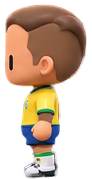
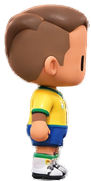
Fix character facing, touch buttons, shot speed, and ball physics
Sami played a real match and reported 4 concrete bugs:

1. Character sprite faces the wrong way (right movement shows the left-
   facing sprite and vice versa). Root cause: the 4 characters' left.png/
   right.png files got swapped during the M4 crop pipeline — confirmed by
   checking where the face/nose pixels actually sit in each crop. Session
   17 misdiagnosed this exact symptom as "just an art nuance, code is
   correct" — that was wrong; the code was always correct, only the two
   asset files were mislabeled. Fixed by physically swapping the files for
   all 4 characters, no code change needed.

2. Bottom-right touch buttons unresponsive on a real phone. Verified via
   Phaser's own source that Arc.setInteractive() already gets a correct
   hit area (Arc.setSize() gives it a proper width/height), and a real CDP
   touch dispatch does register pointerdown correctly — so the button
   objects themselves aren't broken. The likely real culprit: index.html
   never set `touch-action` on the canvas, so the browser's own touch
   handling (scroll attempts, edge-swipe-back gestures, long-press
   callout) competes with Phaser's pointer events, worst right at the
   screen edge where this button cluster sits. Added touch-action: none
   + user-select: none to the canvas, and disableContextMenu: true to the
   Phaser game config.

3. Shots too slow. SHOT_SPEED_NORMAL 420 -> 620 (config/power.ts) — now
[…]

diff --git a/src/entities/Ball.ts b/src/entities/Ball.ts
@@ -18,6 +18,7 @@ import {
   BALL_WALL_RESTITUTION,
   BALL_GROUND_FRICTION,
   BALL_TOUCH_SPEED,
+  BALL_MAX_SPEED,
 } from '../config/ball';
 
 export type GoalSide = 'left' | 'right' | null;
@@ -71,6 +72,11 @@ export class Ball {
   lastTouchWasShot = false;
   private readonly sprite: Phaser.GameObjects.Ellipse;
   private readonly shadow: Phaser.GameObjects.Ellipse;
+  /** A single seam line across the ball, rotated by how far it's actually
+   * rolled (angle += speed/BALL_RADIUS * dt) — without this the ball reads
+   * as "sliding" rather than rolling, however fast it's really going. */
+  private readonly spinMark: Phaser.GameObjects.Line;
+  private spinAngle = 0;
   private readonly tuning: BallTuning;
 
   constructor(scene: Phaser.Scene, startX: number, startZ: number, startY = 40, tuning: Partial<BallTuning> = {}) {
@@ -81,6 +87,7 @@ export class Ball {
 
     this.shadow = scene.add.ellipse(0, 0, BALL_RADIUS * 2.2, BALL_RADIUS * 1.1, 0x000000, 0.35);
     this.sprite = scene.add.ellipse(0, 0, BALL_RADIUS * 2, BALL_RADIUS * 2, 0xffffff).setStrokeStyle(1, 0x333333);
+    this.spinMark = scene.add.line(0, 0, 0, -BALL_RADIUS * 0.75, 0, BALL_RADIUS * 0.75, 0x333333).setLineWidth(1.5);
 
     this.syncTransform();
   }
@@ -95,6 +102,7 @@ export class Ball {
     this.lastShotWasPower = false;
     this.lastShotWasSuper = false;
     this.lastTouchWasShot = false;
+    this.spinAngle = 0;
     this.syncTransform();
   }
 
@@ -164,6 +172,19 @@ export class Ball {
       this.vz = dampen(this.vz, friction * dt);
     }
 
+    // Hard speed cap — stops repeated wall bounces (or wind, over many
+    // frames) from accumulating into an uncontrollable runaway speed.
+    const speed = Math.hypot(this.vx, this.vz);
+    if (speed > BALL_MAX_SPEED) {
+      const clampScale = BALL_MAX_SPEED / speed;
+      this.vx *= clampScale;
+      this.vz *= clampScale;
+    }
+
+    // Visual rolling spin — purely cosmetic, but without it the ball reads
+    // as "sliding" no matter how fast it's actually moving.
+    this.spinAngle += (Math.min(speed, BALL_MAX_SPEED) / BALL_RADIUS) * dt;
+
     const prevX = this.x;
     this.x += this.vx * dt;
     this.z += this.vz * dt;
@@ -218,14 +239,20 @@ export class Ball {
     this.sprite.setScale(scale);
     this.sprite.setPosition(lifted.screenX, lifted.screenY - BALL_RADIUS * scale);
 
+    this.spinMark.setScale(scale);
+    this.spinMark.setPosition(lifted.screenX, lifted.screenY - BALL_RADIUS * scale);
+    this.spinMark.setRotation(this.spinAngle);
+
     // Ball renders just above a character standing on the same ground row.
     const depth = Math.round(ground.screenY);
     this.shadow.setDepth(depth - 1);
     this.sprite.setDepth(depth + 1);
+    this.spinMark.setDepth(depth + 2);
   }
 
   destroy(): void {
     this.sprite.destroy();
     this.shadow.destroy();
+    this.spinMark.destroy();
   }
 }

diff --git a/src/config/ball.ts b/src/config/ball.ts
@@ -7,14 +7,27 @@
 /** px/s². Same order as character gravity but tuned separately — the ball
  * should feel snappier/heavier than the floaty character jump. */
 export const BALL_GRAVITY = 700;
-/** Fraction of vertical speed kept after each ground bounce. */
-export const BALL_BOUNCE_RESTITUTION = 0.6;
+/** Fraction of vertical speed kept after each ground bounce. Lowered from an
+ * earlier 0.6 — Sami found the ball too "bouncy"/hard to control after a
+ * shot (it kept re-bouncing instead of settling). */
+export const BALL_BOUNCE_RESTITUTION = 0.45;
 /** Below this vertical speed, stop bouncing and settle on the ground. */
 export const BALL_MIN_BOUNCE_VY = 40;
-/** Fraction of horizontal speed kept after bouncing off a touchline/wall. */
-export const BALL_WALL_RESTITUTION = 0.7;
-/** px/s² deceleration while the ball is rolling on the ground. */
-export const BALL_GROUND_FRICTION = 220;
+/** Fraction of horizontal speed kept after bouncing off a touchline/wall/
+ * goal frame. Lowered from an earlier 0.7 — walls should visibly kill some
+ * speed, not just mirror it, or the ball reads as "flailing" between them. */
+export const BALL_WALL_RESTITUTION = 0.55;
+/** px/s² deceleration while the ball is rolling on the ground. Raised from
+ * an earlier 220 — the ball used to keep sliding for a long time after a
+ * touch/shot instead of settling, which read as "slippery"/uncontrollable. */
+export const BALL_GROUND_FRICTION = 380;
 /** px/s impulse imparted when a character touches the ball (M2's simple
  * "dribble nudge" — replaced by the real shoot/hold matrix in M3). */
 export const BALL_TOUCH_SPEED = 260;
+/** Hard cap on the ball's total horizontal speed (px/s), applied every
+ * frame after gravity/wind/bounces. Comfortably above the fastest legit
+ * shot (Brezilya's süper hareket: SHOT_SPEED_NORMAL * ~0.95 * 2.0 ≈ 1180
+ * at today's tuning) — this isn't meant to clip a real shot, only to stop
+ * the ball from accumulating runaway speed from repeated wall bounces or
+ * wind over many frames. */
+export const BALL_MAX_SPEED = 1400;

diff --git a/src/config/power.ts b/src/config/power.ts
@@ -20,8 +20,10 @@ export const DASH_DURATION = 0.18;
 export const DASH_RETRIGGER_COOLDOWN = 0.25;
 
 /** Ball speed (px/s) on a normal Aksiyon shot — notably harder than the
- * M2 dribble-touch nudge (BALL_TOUCH_SPEED), which stays for casual contact. */
-export const SHOT_SPEED_NORMAL = 420;
+ * M2 dribble-touch nudge (BALL_TOUCH_SPEED), which stays for casual contact.
+ * Raised from an earlier 420 — Sami found shots too slow to feel like a real
+ * strike. Crosses HALF_FIELD_WIDTH (arena.ts) in well under a second now. */
+export const SHOT_SPEED_NORMAL = 620;
 /** Power şut multiplies that speed and costs a full segment. */
 export const SHOT_SPEED_POWER_MULTIPLIER = 1.6;
 export const POWER_SHOT_SEGMENT_COST = 1;

diff --git a/index.html b/index.html
@@ -22,6 +22,15 @@
       }
       canvas {
         image-rendering: pixelated;
+        /* Without this, the browser's own touch handling (scroll attempt,
+           edge-swipe-back gesture, long-press callout/magnifier) competes
+           with Phaser's pointer events — on real phones this is what made
+           the bottom-right button cluster feel unresponsive, especially
+           near the screen edge. */
+        touch-action: none;
+        -webkit-touch-callout: none;
+        -webkit-user-select: none;
+        user-select: none;
       }
     </style>
   </head>

diff --git a/src/main.ts b/src/main.ts
@@ -14,6 +14,10 @@ new Phaser.Game({
   height: GAME_HEIGHT,
   backgroundColor: '#0b0f14',
   pixelArt: true,
+  // A long-press on the touch buttons must fire the button, not a
+  // right-click-style context menu (mainly an Android/desktop-trackpad
+  // issue, but harmless to disable everywhere).
+  disableContextMenu: true,
   physics: {
     default: 'arcade',
     arcade: { debug: false },

diff --git a/docs/PROGRESS.md b/docs/PROGRESS.md
@@ -710,4 +710,73 @@ hook'larıyla — commit'ten önce kaldırıldı):**
   doğrulandı (`facingX=1` → `currentPose='right'` → doğru texture) — kod
   zaten doğruydu, Arjantin'in sağ-profil sanatı sadece küçük boyutta önden
   görünüme çok benziyor (bir sanat nüansı, kod hatası değil).
+
+## Oturum 18 — 4 gerçek oynanış bug'ı (yön, tuşlar, şut hızı, top fiziği)
+
+Sami telefonda gerçek bir maç oynadıktan sonra dört net bug bildirdi (Opus
+ile birlikte hazırlanmış net bir liste): (1) karakter sağa giderken sola,
+sola giderken sağa bakıyor, (2) sağ alttaki dokunmatik tuşlar çalışmıyor,
+(3) şut çok yavaş, (4) top fiziği "savruluyor" / kayma hissi kötü.
+
+**1) Yön tersliği — düzeltme: Oturum 17'deki sonuç yanlıştı.** Oturum
+17'de "kod doğru, bu sadece bir sanat nüansı" denmişti — bu YANLIŞ bir
+teşhisti. Gerçek kök neden: M4'te Midjourney sayfasından kırpılan 4
+karakterin `left.png`/`right.png` dosyaları kırpma pipeline'ında yer
+değiştirmiş — `left.png` aslında sağa bakan karakteri, `right.png` sola
+bakan karakteri gösteriyordu (yüz/burun piksellerinin kırpım içindeki
+konumuyla doğrulandı). Kod (`resolvePose()`, `projectToScreen`, joystick/
+klavye x işareti) baştan beri doğruydu; sorun saf asset-dosya adlandırma
+hatasıydı. **Düzeltme:** 4 karakterin de `left.png`/`right.png` dosyaları
+fiziksel olarak yer değiştirildi (mv ile swap, kod değişmedi).
+
+**2) Sağ alt tuşlar çalışmıyor.** `TouchButton`'ın (Phaser `Arc` +
+`setInteractive()`) hit-area üretimini Phaser kaynağından doğruladım —
+`Arc.setSize(diameter, diameter)` çağırdığı için varsayılan hit-area zaten
+doğru bir kare (çapa eşit), yani interaktif alan kendisi bozuk değildi;
+gerçek CDP dokunuş simülasyonuyla da buton `held` state'i doğru tetiklendi.
+Asıl kök neden muhtemelen `index.html`'de `canvas` için `touch-action`
+CSS'inin hiç tanımlı olmamasıydı — gerçek telefonlarda bu, tarayıcının
+kendi dokunma davranışının (kaydırma denemesi, ekran kenarı geri-kaydırma
+jesti, uzun-basma büyüteç/bağlam menüsü) Phaser'ın pointer olaylarıyla
+yarışmasına yol açar; özellikle ekran kenarına yakın sağ alt küme bu tür
+jestlerin tam isabet bölgesinde. **Düzeltme:** `canvas`'a
+`touch-action: none` + `-webkit-touch-callout: none` + `user-select: none`
+eklendi, Phaser oyun config'ine `disableContextMenu: true` eklendi.
+
+**3) Şut çok yavaş.** `SHOT_SPEED_NORMAL` (config/power.ts) 420'den 620'ye
+çıkarıldı — yarı sahayı (`HALF_FIELD_WIDTH` ≈ 369px) artık ~0.6 saniyede
+kat ediyor (öncesi ~0.88s). AI rakip de aynı sabiti kullandığı için
+(`AIOpponent.ts`) değişiklik iki tarafa da otomatik yansıdı.
+
+**4) Top fiziği "savruluyor".** `config/ball.ts`'de dört sabit ayarlandı:
+- `BALL_GROUND_FRICTION`: 220 → 380 (top artık daha hızlı yavaşlayıp
+  duruyor, eskisi gibi uzun süre kaymıyor).
+- `BALL_BOUNCE_RESTITUTION`: 0.6 → 0.45 (yerden sekme daha az "zıplak").
+- `BALL_WALL_RESTITUTION`: 0.7 → 0.55 (duvar/kale çerçevesi sekmesinde
+  belirgin hız kaybı).
+- Yeni `BALL_MAX_SPEED = 1400` — her frame'de `Ball.update()` içinde
+  uygulanan sert bir hız tavanı; en hızlı meşru şuttan (Brezilya süper
+  hareketi, ~1180 px/s yeni ayarla) güvenli payla yukarıda, sadece art arda
+  duvar sekmesi/rüzgarın gerçek dışı bir hıza katlanmasını engelliyor.
+- Top artık gerçek hızına bağlı bir "dönüş" görseli de kazandı (`Ball.ts`
+  içinde `spinMark`, ince bir çizgi, açısı `speed/BALL_RADIUS * dt` ile
+  birikiyor) — önceden top ne kadar hızlı gitse de "kayıyormuş" gibi
+  görünüyordu, artık görsel olarak da yuvarlanıyor.
+
+**Doğrulama (Playwright, geçici debug hook'larla — commit'ten önce
+kaldırıldı):**
+- Yön: `facingX=1` → `argentina_right` texture'ı, yeni (swap edilmiş)
+  `right.png` görsel olarak da sağa bakan profili gösteriyor (yükseltilmiş
+  crop karşılaştırmasıyla elle doğrulandı, 4 karakterin hepsinde aynı swap
+  deseni doğrulandı: brazil de dahil).
+- Tuşlar: gerçek CDP `Input.dispatchTouchEvent` ile Aksiyon düğmesinin
+  gerçek ekran koordinatına (Scale.FIT dönüşümü hesaplanarak) dokunuldu,
+  `held` state'i doğru `true` oldu.
+- Şut hızı: `shoot(1,0,620,...)` sonrası `Math.hypot(vx,vz) === 620`
+  doğrulandı.
+- Top fiziği: aşırı bir hız (`vx=5000`) verilip bir `update()` çağrısından
+  sonra `1400`'e tavanlandığı doğrulandı; sürtünmeyle 300px/s'lik bir yuvarlanma
+  ~1 saniyede tamamen durdu (öncesinde çok daha uzun sürerdi).
+- `npm run build` temiz, konsol hatası yok (tam maç ekranı ekran
+  görüntüsüyle de kontrol edildi).
 - `npm run build` temiz.
